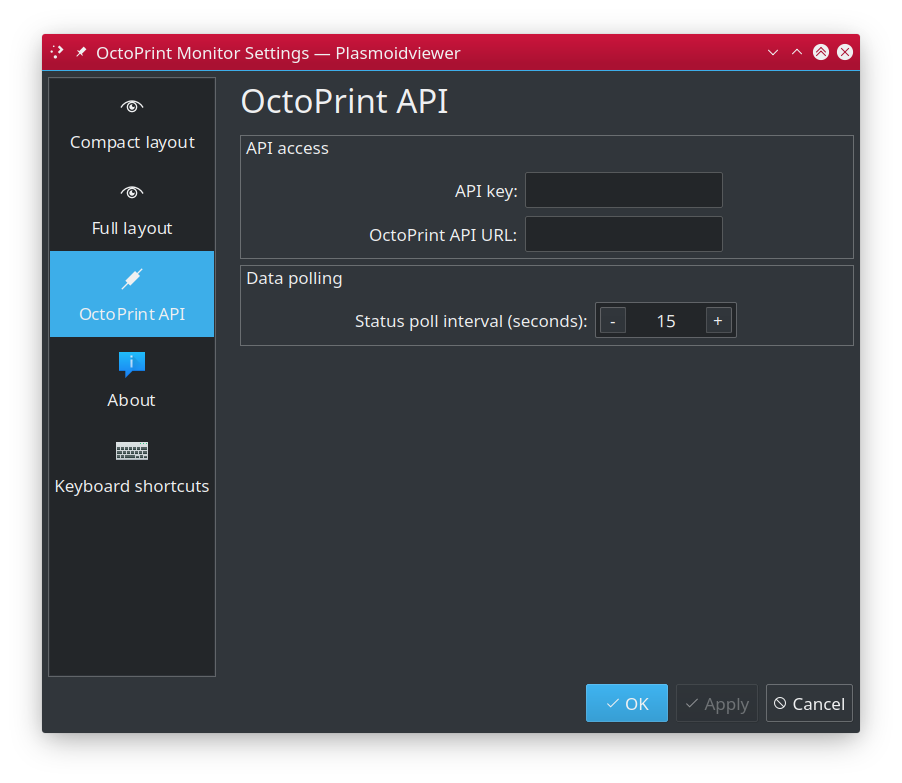
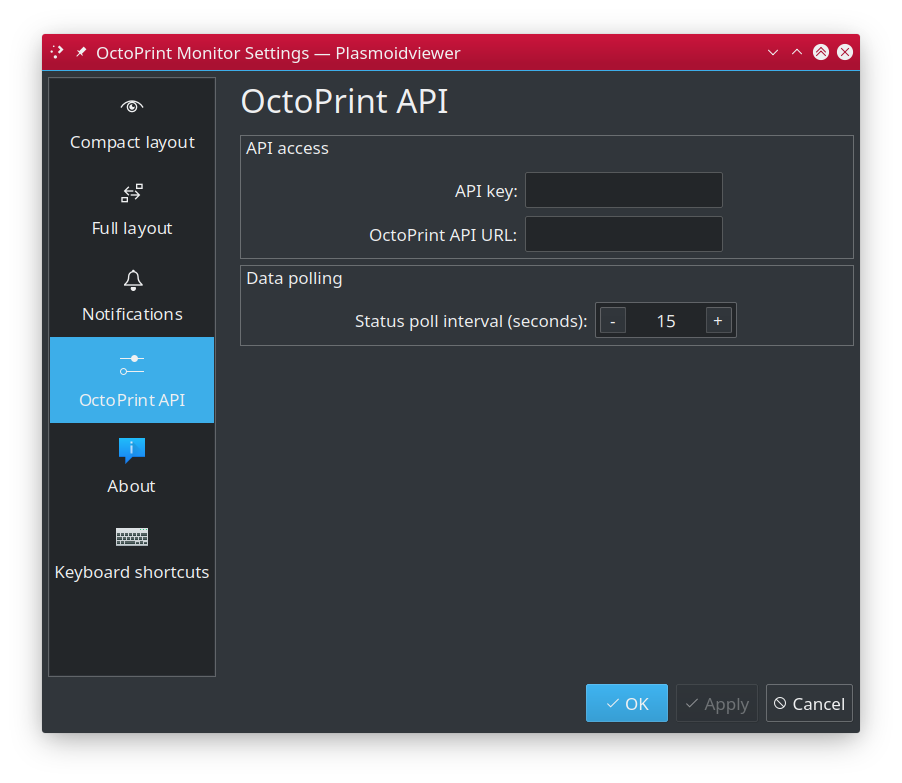
Updated docs

Changed region(s): [[0.031, 0.3065, 0.2483, 0.6437], [0.0621, 0.6743, 0.2173, 0.7356], [0.1242, 0.2146, 0.1552, 0.2759]]

diff --git a/docs/setup.md b/docs/setup.md
@@ -14,6 +14,7 @@
      * [Configuration](#configuration)
        * [Compact layout](#compact-layout)
        * [Full layout](#full-layout)
+       * [Desktop notifications](#desktop-notifications)
        * [OctoPrint API](#octoprint-api)
    * [Troubleshooting](troubles.md)
    * [License](../README.md/#license)
@@ -61,27 +62,27 @@ used when you put it into your vertical or horizontal panel.
  - **State icon** - graphical state representation (octopus icons)
    - **Disable state icon** - controls visibility of state icon. 
    - **Override maximum state icon size** - by default visible state icons adapts its size to
-   dimensions of the container it sits in. In some cases, esp. with vertical panels this may
-   cause icon to occupy too much space for no actual benefits. This option lets you set
-   max allowed icon size and if the container is bigger, then icon will not grow beyong
-   specified dimensions.
+     dimensions of the container it sits in. In some cases, esp. with vertical panels this may
+     cause icon to occupy too much space for no actual benefits. This option lets you set
+     max allowed icon size and if the container is bigger, then icon will not grow beyong
+     specified dimensions.
 
 - **State text** - textual representation of state
   - **Display text state line** - controls visibility of text state shown usually below the icon.
-  This line ususally contains just state bucket name (i.e. "Idle") and print job progress
-  percentage (if print job is currently ongoing). Disabling this element hides both types
-  of presented information.
+    This line ususally contains just state bucket name (i.e. "Idle") and print job progress
+    percentage (if print job is currently ongoing). Disabling this element hides both types
+    of presented information.
   - **Show state bucket name** - you may want to disable state name completely, w/o affecting
-  other information presented in this line. If this option is enabled you will not see any
-  state info but you may still see the progress percentage.
+    other information presented in this line. If this option is enabled you will not see any
+    state info but you may still see the progress percentage.
   - **Hide state text for specific buckets** - you may want to hide this information
-  for specific states only to make widgets as small as possible.
+    for specific states only to make widgets as small as possible.
   - **Display print progress percentage** - if enabled, will as name indicates show
-  percentage of ongoing print job. If nothing is being printed, this element is hidden.
+    percentage of ongoing print job. If nothing is being printed, this element is hidden.
 
 - **Job progress**
   - **Show print job progress bar** - if enabled, small progress bar will be shown as
-  soon as print job is started.
+    soon as print job is started.
 
 > **HINT:** with default settings, active print job is presented as "Printing 12.1%",
 > which is somehow redundant as percentage is only shown for active print job. You may
@@ -97,35 +98,48 @@ Full layout is being used when `OctoPrint Monitor` is used as regular desktop wi
 
  - **Camera view**
    - **Enable camera snapshot view** - if your setup includes OctoPrint connected webcam
-   then you may enable this option in `OctoPrint Monitor` to show frequently updated
-   snapshots from your webcam directly on your desktop.
+     then you may enable this option in `OctoPrint Monitor` to show frequently updated
+     snapshots from your webcam directly on your desktop.
    - **Camera snapshot URL** - complete address to OctoPrint snapshot feature. By default
-   it should be `http://<OCTOPRINT>/webcam/?action=snapshot` where `<OCTOPRINT>` is either
-   IP address of your OctoPrint instance or its domain name (i.e. `octoprint.local` that
-   you use). You can find that URL in OctoPrint settings in "Webcam and timelapse" section.
-   **NOTE:** note, that OctoPrint uses `127.0.0.1` as IP address in default settings. This
-   will of course not work if copied - you must replace `127.0.0.1` by proper IP address
-   of your OctoPrint.
+     it should be `http://<OCTOPRINT>/webcam/?action=snapshot` where `<OCTOPRINT>` is either
+     IP address of your OctoPrint instance or its domain name (i.e. `octoprint.local` that
+     you use). You can find that URL in OctoPrint settings in "Webcam and timelapse" section.
+     **NOTE:** note, that OctoPrint uses `127.0.0.1` as IP address in default settings. This
+     will of course not work if copied - you must replace `127.0.0.1` by proper IP address
+     of your OctoPrint.
    - **Camera update intervals** - specify how frequently you want webcam snapshot view
-   to be updated. You may want to increase the interval, to reduce network traffic and
-   drop the load off OctoPrint.
+     to be updated. You may want to increase the interval, to reduce network traffic and
+     drop the load off OctoPrint.
+   - **Show camera view controls** - enables visibility of "Start/Pause", "Stop" and 
+     "Refresh" camera view control buttons.
+
  - **Camera view control**
    - **Stop camera polling for state buckets** - if enabled, camera snapshot polling
-   will stop if printer enters selected states. You may want to i.e. enable this
-   option for i.e. "Idle" and "Disconnected" states as most likely there will be nothing
-   interesting to watch in these states.  
+     will stop if printer enters selected states. You may want to i.e. enable this
+     option for i.e. "Idle" and "Disconnected" states as most likely there will be nothing
+     interesting to watch in these states.  
  - **Misclaneous**
    - **Show elapsed print time** - contrils visibiliy of elapsed print time. If there's
-   no print job in progress, this info is hidden.
+     no print job in progress, this info is hidden.
    - **Show estimated job time left** - displays **estimated** time needed to complete
-   ongoing print. This information comes from OctoPrint and, unfortunatelly is often
-   not very accurate, so to speak. You may want to disable it and using percentage
-   or progress bar instead. If there's no print job in progress, this info is hidden.
+     ongoing print. This information comes from OctoPrint and, unfortunatelly is often
+     not very accurate, so to speak. You may want to disable it and using percentage
+     or progress bar instead. If there's no print job in progress, this info is hidden.
    - **Show job file name** - if enabled, name of currently printer GCODE file will
-   be shown in the widget. If there's no print job in progress, this info is hidden.
+     be shown in the widget. If there's no print job in progress, this info is hidden.
    
  **NOTE:** You must configure OctoPrint properly and ensure its snapshot URL is accessible
  form other machines in your network (simply check using your browser).   
+
+### Desktop notifications ###
+
+`OctoPrint Monitor` can post desktop notifications to attract user attention. 
+
+![Desktop notifications](img/config-notifications.png)
+
+ - **Post desktop notifications** - when checked, various events (like printer state changes etc)
+   will additionally announced by posting desktop notification.
+
 
 ## OctoPrint API ##
 
@@ -135,11 +149,11 @@ Configure OctoPrint API access here.
 
  - **API access**
    - **API key** - put OctoPrint "Global API Access Key" here (can be found in "API"
-   section of OctoPrint preferences).
+     section of OctoPrint preferences).
    - **OctoPrint API URL** - put full URL to your OctoPrint REST API. This is usually
-   construced as `http://<OCTOPRINT>/api` where `<OCTOPRINT>` is IP address or domain
-   name of your OctoPrint installation.
+     construced as `http://<OCTOPRINT>/api` where `<OCTOPRINT>` is IP address or domain
+     name of your OctoPrint installation.
  - **Data polling**
    - **Status poll interval** - controls how often `OctoPrint Monitor` will query
-   OctoPrint about its status and the printer. 
+     OctoPrint about its status and the printer. 
 
